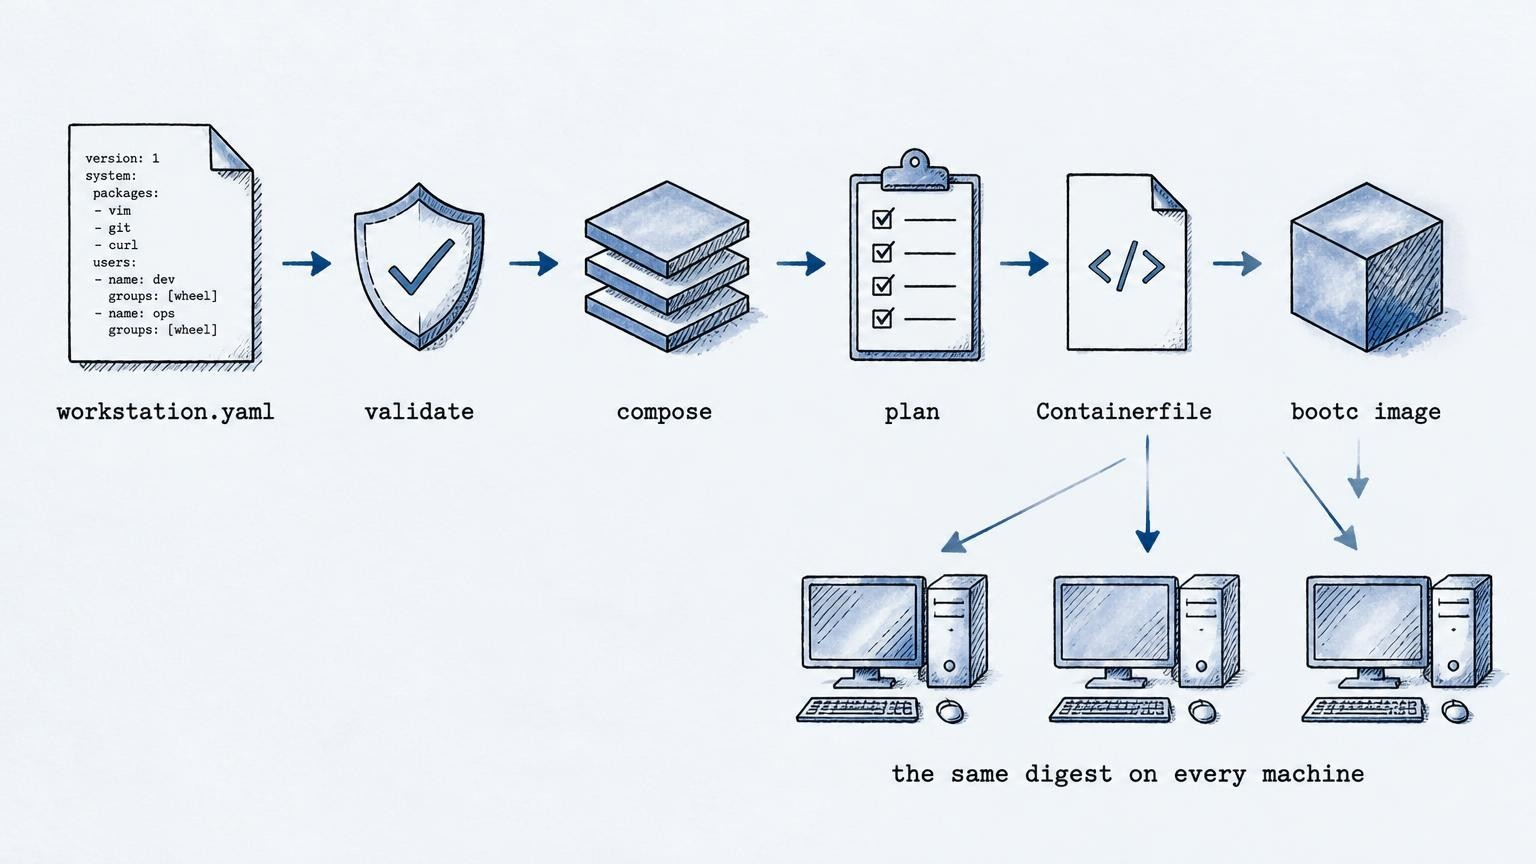
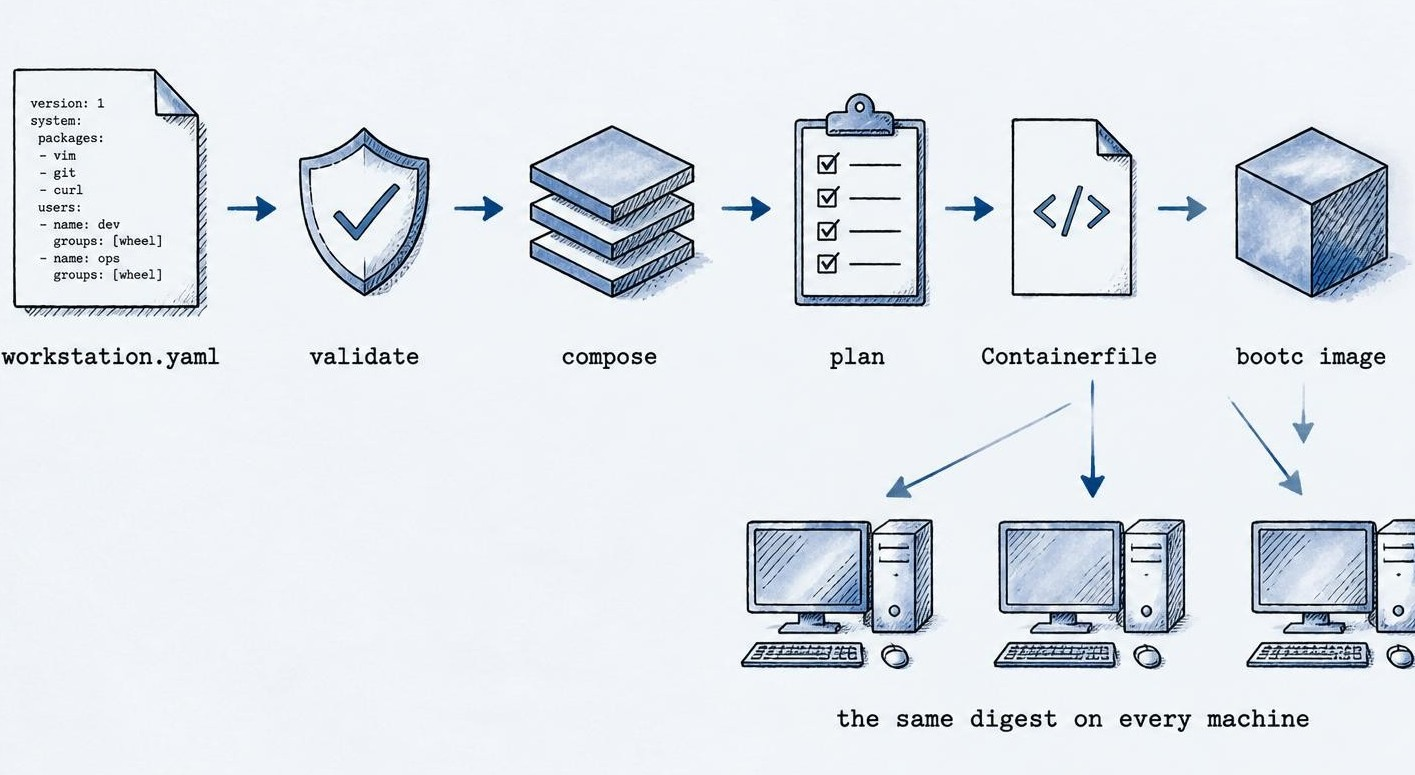
Move the intent-to-image plate beside the headline
Cropped inside its margins so the labels stay legible at half width, and the
hero returns to two columns: copy on the left, the plate on the right.

diff --git a/index.html b/index.html
@@ -43,13 +43,17 @@
         <a class="btn btn-ghost" href="https://github.com/deskosproject/deskos-core/tree/main/docs">Read the docs</a>
       </div>
 
+
+    </div>
+
+    <aside class="hero-visual">
       <figure class="figure-plain hero-figure">
         <picture>
           <source srcset="assets/intent-to-image.webp" type="image/webp">
-          <img src="assets/intent-to-image.jpg" width="1536" height="864" alt="From intent to image: a workstation YAML is validated, composed and planned into a Containerfile, which becomes one bootc image pulled by every machine with the same digest">
+          <img src="assets/intent-to-image.jpg" width="1415" height="775" alt="From intent to image: a workstation YAML is validated, composed and planned into a Containerfile, which becomes one bootc image pulled by every machine with the same digest">
         </picture>
       </figure>
-    </div>
+    </aside>
   </div>
 
 </section>

diff --git a/assets/site.css b/assets/site.css
@@ -95,7 +95,7 @@ a:hover { color: var(--accent); }
 /* Hero */
 .hero { padding: clamp(2.4rem, 5vw, 4rem) 0 0; }
 
-.hero-grid { display: grid; grid-template-columns: minmax(0, 1fr); gap: clamp(2rem, 5vw, 5rem); align-items: start; }
+.hero-grid { display: grid; grid-template-columns: minmax(0, 1fr) minmax(360px, 1.18fr); gap: clamp(2rem, 5vw, 5rem); align-items: start; }
 .eyebrow {
   font-family: var(--mono); font-size: .78rem; letter-spacing: .14em; text-transform: uppercase;
   color: var(--accent); margin: 0 0 1.2rem;
@@ -115,7 +115,7 @@ h1 {
 .figure-plain { margin: 2.2rem 0 0; }
 .figure-plain picture { display: block; }
 .figure-plain img { display: block; width: 100%; height: auto; }
-.hero-figure { margin-top: 2.6rem; }
+.hero-figure { margin-top: .4rem; }
 
 /* Hero visual */
 .hero-visual { min-width: 0; }
